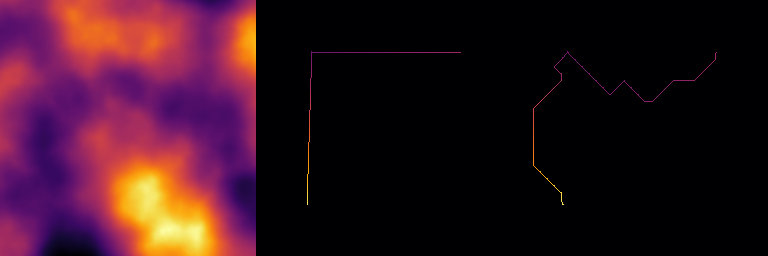
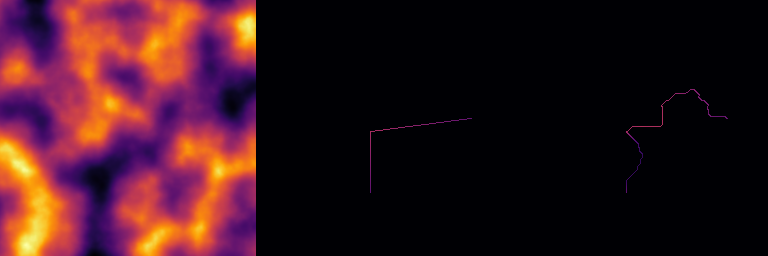
Celan-up Dijkstra functions

diff --git a/HighMap/src/array/dijsktra.cpp b/HighMap/src/array/dijsktra.cpp
@@ -62,8 +62,6 @@ void Array::find_path_dijkstra(Vec2<int>                      ij_start,
     queue_j.erase(queue_j.begin() + kmin);
     queue_d.erase(queue_d.begin() + kmin);
 
-    // LOG_DEBUG("%d %g", kmin, queue_d[kmin]);
-
     // loop over neighbors
     for (size_t k = 0; k < nb; k++)
     {
@@ -119,7 +117,7 @@ void Array::find_path_dijkstra(Vec2<int>                      ij_start,
 
     std::vector<int> i_path, j_path;
 
-    while ((ic != ij_start.x) or (jc != ij_start.y)) // TODO add failsafe?
+    while ((ic != ij_start.x) or (jc != ij_start.y))
     {
       i_path.push_back(ic);
       j_path.push_back(jc);
@@ -145,130 +143,23 @@ void Array::find_path_dijkstra(Vec2<int>         ij_start,
                                std::vector<int> &j_path,
                                float             elevation_ratio,
                                float             distance_exponent,
-                               Vec2<int>         step,
+                               float             upward_penalization,
                                Array            *p_mask_nogo) const
 {
-  // https://math.stackexchange.com/questions/3088292
+  std::vector<std::vector<int>> i_path_list = {i_path};
+  std::vector<std::vector<int>> j_path_list = {j_path};
 
-  Vec2<int> shape_coarse = shape / step;
-  Vec2<int> ij_start_coarse = ij_start / step;
-  Vec2<int> ij_end_coarse = ij_end / step;
+  this->find_path_dijkstra(ij_start,
+                           {ij_end},
+                           i_path_list,
+                           j_path_list,
+                           elevation_ratio,
+                           distance_exponent,
+                           upward_penalization,
+                           p_mask_nogo);
 
-  // neighbors pattern
-  const std::vector<int>   di = {-1, 0, 0, 1, -1, -1, 1, 1};
-  const std::vector<int>   dj = {0, 1, -1, 0, -1, 1, -1, 1};
-  const std::vector<float> cd =
-      {1.f, 1.f, 1.f, 1.f, M_SQRT2, M_SQRT2, M_SQRT2, M_SQRT2};
-  const size_t nb = di.size();
-
-  // working queue and arrays
-  std::vector<int>   queue_i;
-  std::vector<int>   queue_j;
-  std::vector<float> queue_d; // distance
-  queue_i.reserve(shape_coarse.x * shape_coarse.y);
-  queue_j.reserve(shape_coarse.x * shape_coarse.y);
-  queue_d.reserve(shape_coarse.x * shape_coarse.y);
-
-  Mat<float> distance(shape_coarse);
-  Mat<int>   mask(shape_coarse);
-  Mat<int>   next_idx_i(shape_coarse);
-  Mat<int>   next_idx_j(shape_coarse);
-
-  // --- Dijkstra's algorithm
-  queue_i.push_back(ij_start_coarse.x);
-  queue_j.push_back(ij_start_coarse.y);
-  queue_d.push_back(0.f);
-  mask(ij_start_coarse.x, ij_start_coarse.y) = true;
-
-  while (queue_i.size() > 0)
-  {
-    // next cell == min distance value
-    int kmin = std::distance(queue_d.begin(),
-                             std::min_element(queue_d.begin(), queue_d.end()));
-
-    int i = queue_i[kmin];
-    int j = queue_j[kmin];
-    mask(i, j) = false;
-
-    queue_i.erase(queue_i.begin() + kmin);
-    queue_j.erase(queue_j.begin() + kmin);
-    queue_d.erase(queue_d.begin() + kmin);
-
-    // LOG_DEBUG("%d %g", kmin, queue_d[kmin]);
-
-    // loop over neighbors
-    for (size_t k = 0; k < nb; k++)
-    {
-      int p = i + di[k];
-      int q = j + dj[k];
-
-      if ((p >= 0) and (p < shape_coarse.x) and (q >= 0) and
-          (q < shape_coarse.y))
-      {
-        // previous cumulative value
-        float dist = distance(i, j);
-
-        // elevation difference contribution (weighted for diagonal
-        // directions to avoid artifacts)
-        dist += (1.f - elevation_ratio) *
-                std::pow(std::abs((*this)(i * step.x, j * step.y) -
-                                  (*this)(p * step.x, q * step.y)) *
-                             cd[k],
-                         distance_exponent);
-
-        // absolute elevation contribution (puts the emphasize on
-        // going downslope rather than upslope)
-        dist += elevation_ratio *
-                std::max(0.f,
-                         cd[k] * ((*this)(p * step.x, q * step.y) -
-                                  (*this)(i * step.x, j * step.y)));
-
-        if (p_mask_nogo) dist += 1e5f * (*p_mask_nogo)(p * step.x, q * step.y);
-
-        if (distance(p, q) == 0.f)
-          if ((mask(p, q) == 0) or (dist < distance(p, q)))
-          {
-            distance(p, q) = dist;
-
-            mask(p, q) = true;
-            queue_i.push_back(p);
-            queue_j.push_back(q);
-            queue_d.push_back(dist);
-
-            next_idx_i(p, q) = i;
-            next_idx_j(p, q) = j;
-          }
-      }
-    }
-  }
-
-  // --- Build path backwards
-  i_path.clear();
-  j_path.clear();
-
-  int ic = ij_end_coarse.x;
-  int jc = ij_end_coarse.y;
-
-  while ((ic != ij_start_coarse.x) or
-         (jc != ij_start_coarse.y)) // TODO add failsafe?
-  {
-    i_path.push_back(ic);
-    j_path.push_back(jc);
-
-    ic = next_idx_i(ic, jc);
-    jc = next_idx_j(ic, jc);
-  }
-
-  i_path.push_back(ic);
-  j_path.push_back(jc);
-
-  for (auto &i : i_path)
-    i *= step.x;
-  for (auto &j : j_path)
-    j *= step.y;
-
-  std::reverse(i_path.begin(), i_path.end());
-  std::reverse(j_path.begin(), j_path.end());
+  i_path = i_path_list[0];
+  j_path = j_path_list[0];
 }
 
 } // namespace hmap

diff --git a/HighMap/src/geometry/path.cpp b/HighMap/src/geometry/path.cpp
@@ -213,9 +213,9 @@ void Path::decimate_vw(int n_points_target)
 
 void Path::dijkstra(Array      &array,
                     Vec4<float> bbox,
-                    int         edge_divisions,
                     float       elevation_ratio,
                     float       distance_exponent,
+		    float  upward_penalization,
                     Array      *p_mask_nogo)
 {
   size_t ks = this->closed ? 0 : 1; // trick to handle closed contours
@@ -235,18 +235,6 @@ void Path::dijkstra(Array      &array,
         (int)((this->points[knext].y - bbox.c) / (bbox.d - bbox.c) *
               (array.shape.y - 1)));
 
-    float dist_idx = std::hypot((float)(ij_start.x - ij_end.x),
-                                (float)(ij_start.y - ij_end.y));
-
-    Vec2<int> step;
-    if (edge_divisions > 0)
-    {
-      int div = std::max(1, (int)(dist_idx / edge_divisions));
-      step = Vec2<int>(div, div);
-    }
-    else
-      step = Vec2<int>(1, 1);
-
     std::vector<int> ip, jp;
     array.find_path_dijkstra(ij_start,
                              ij_end,
@@ -254,7 +242,7 @@ void Path::dijkstra(Array      &array,
                              jp,
                              elevation_ratio,
                              distance_exponent,
-                             step,
+			     upward_penalization,
                              p_mask_nogo);
 
     // backup cuurrent edge informations before adding points to this edge

diff --git a/HighMap/include/highmap/array.hpp b/HighMap/include/highmap/array.hpp
@@ -347,8 +347,7 @@ public:
    * points. A higher exponent increases the cost of elevation gaps, encouraging
    * the path to minimize elevation changes and reduce overall cumulative
    * elevation gain.
-   * @param step Step size for i and j indices to accelerate computation by
-   * using only every "step" data point.
+   * @param upward_penalization Penalize upstream slopes.
    * @param p_mask_nogo Optional pointer to an array mask that defines areas to
    * avoid during pathfinding.
    *
@@ -366,7 +365,7 @@ public:
                           std::vector<int> &j_path,
                           float             elevation_ratio = 0.1f,
                           float             distance_exponent = 2.f,
-                          Vec2<int>         step = {1, 1},
+                          float             upward_penalization = 1.f,
                           Array            *p_mask_nogo = nullptr) const;
 
   void find_path_dijkstra(Vec2<int>                      ij_start,

diff --git a/HighMap/include/highmap/geometry/path.hpp b/HighMap/include/highmap/geometry/path.hpp
@@ -316,9 +316,9 @@ public:
    */
   void dijkstra(Array      &array,
                 Vec4<float> bbox,
-                int         edge_divisions = 0,
                 float       elevation_ratio = 0.f,
                 float       distance_exponent = 0.5f,
+                float  upward_penalization = 1.f,
                 Array      *p_mask_nogo = nullptr);
 
   /**
